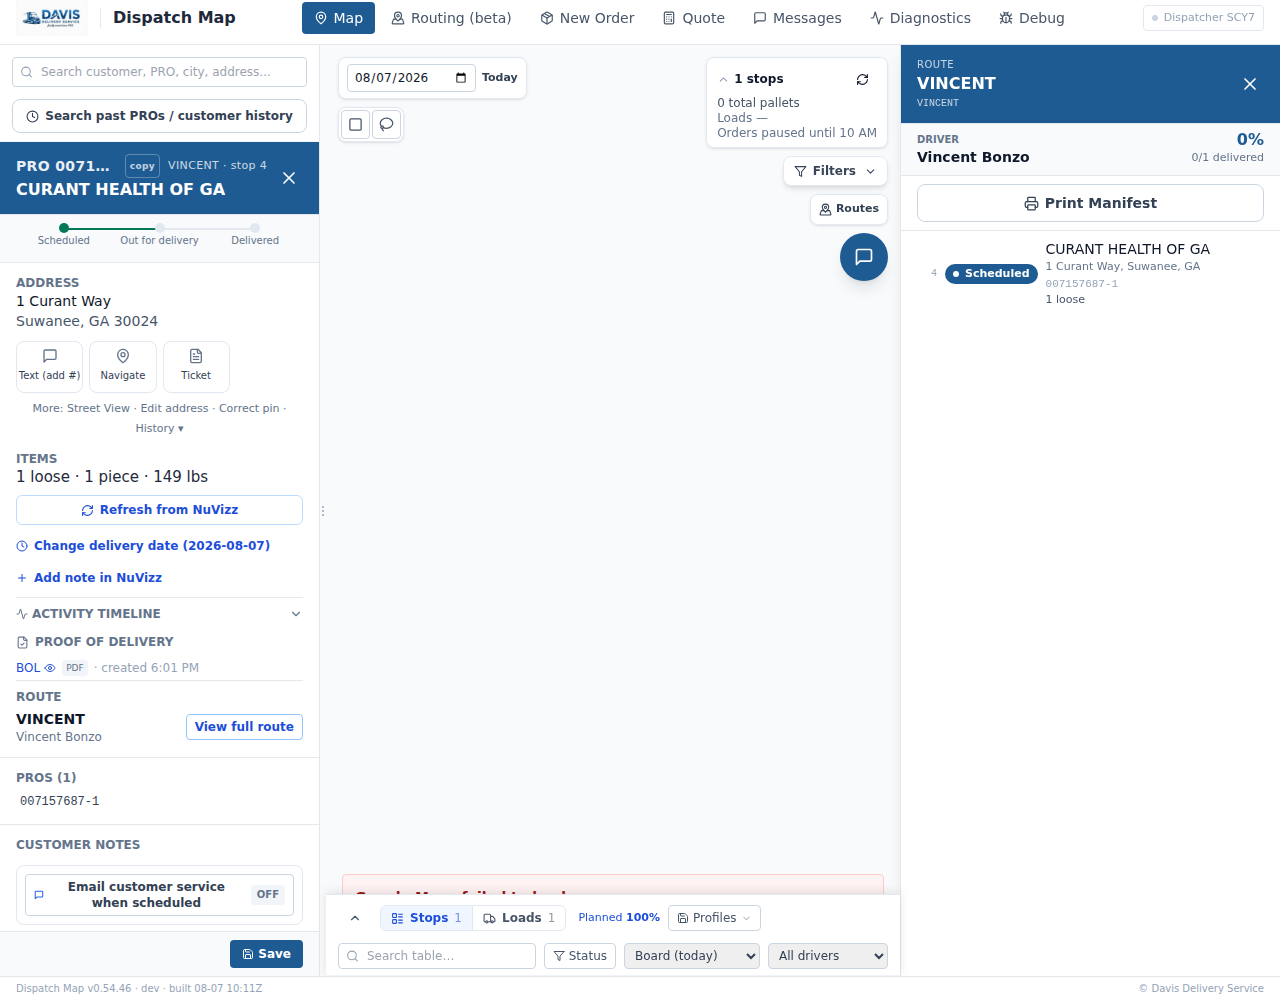
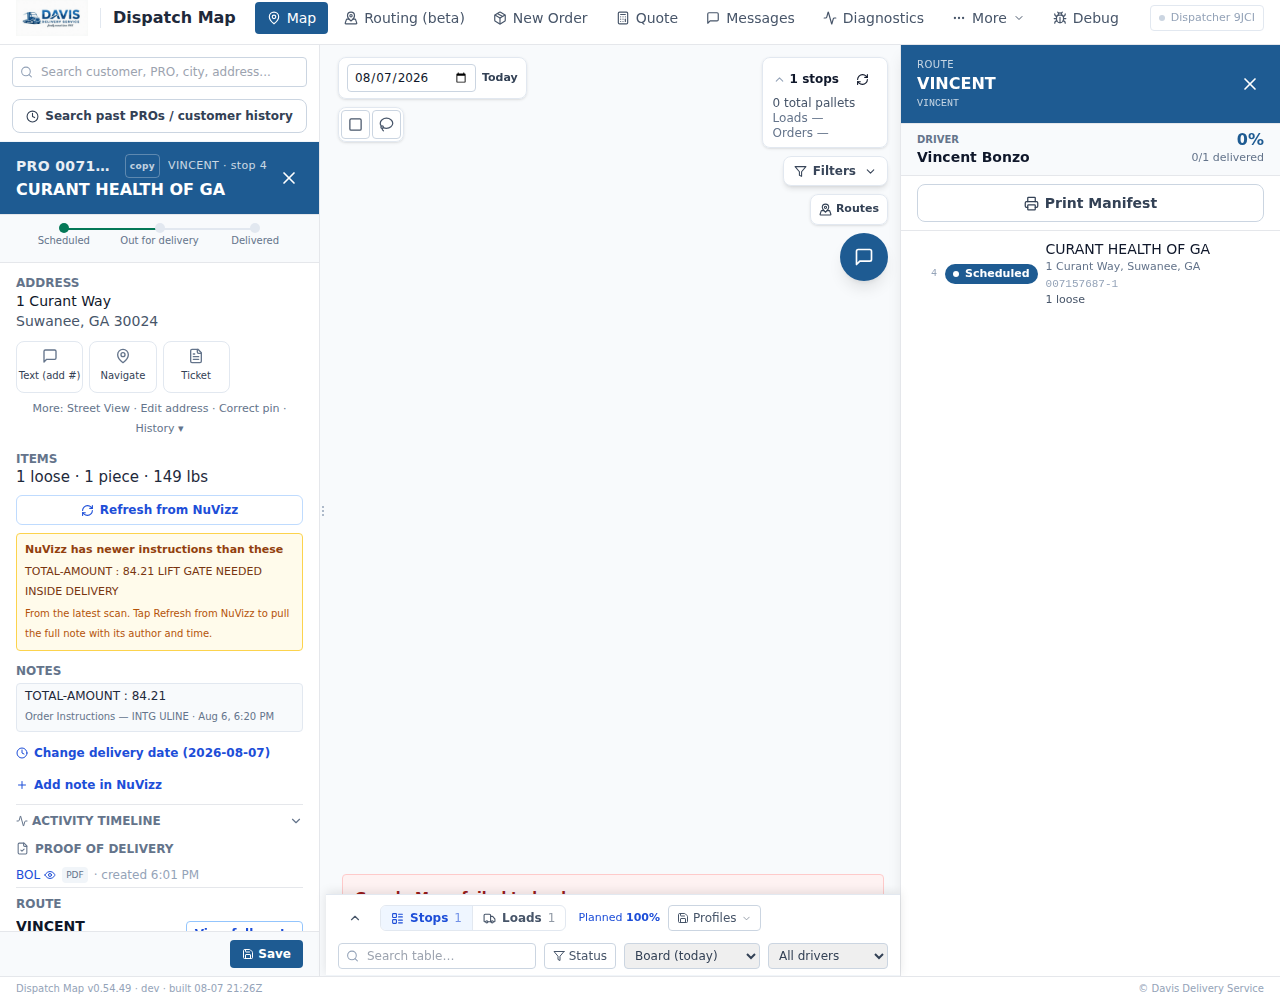
Refresh notes on every scan; persist the notes a card already paid for (v0.54.49)
Chad: "Notes should be updated with every scan planned unplanned and
completed deliveries."

What was happening is worse than "a bit behind": an order's notes were
captured ONCE, by the single /stop/info this app runs the first time a
PRO appears on the board, and never touched again by any scan. That
enriched record is filed per PRO in a day-independent registry and reused
across days, so a repeat customer could be showing notes captured weeks
before the instruction that mattered was written.

1. ORDER INSTRUCTIONS ARE NOW LIVE. The saved-search rows have carried
   each order's note text on every scan all along (nuvizz-list.mts:169 →
   toBoardStop orderInstructions). It just wasn't in LIVE_LIST_FIELDS, so
   mergeEnrich copied the older stored value back over it on every pass.
   Adding it refreshes the text on all three searches — planned,
   unplanned, completed — at zero extra NuVizz cost. Also added to the
   map feed mask so it actually reaches the client.

2. THE ON-DEMAND PULL IS PERSISTED. Opening a card / Refresh / the
   timeline already pays for a /stop/info whose answer carries current
   notes; useLiveStop folded them into the open card and dropped them on
   close. writeStopNotes() writes them back — same call, no new cost, and
   the repair is permanent for everyone instead of cosmetic for one tab.
   Read-merge-write, note fields only, so it can't race the scan that
   rewrites the whole doc every 15 minutes; an empty value never clobbers
[…]

diff --git a/dispatch-map/src/App.jsx b/dispatch-map/src/App.jsx
@@ -32,6 +32,7 @@ import { planOverlayAction, PLAN_OVERLAY_TTL_MS } from './lib/plan-overlay.js';
 import { routeStopEta, routeStopFreight, routeStopSeq } from './lib/route-stop-line.js';
 import { routeLoadLine, podPhotoFetchOffer, podSectionVisible, isPodImageExt, foldFreshStop } from './lib/stop-card-sections.js';
 import { manifestIssues, manifestHeadline, toStored, loadStored, saveStored } from './lib/manifest-check-view.js';
+import { noteFreshness } from './lib/stop-notes-freshness.js';
 import { stopTimelineModel } from './lib/stop-timeline.js';
 import { diffRouteStyle, DIFF_ORIGINAL_COLOR, groupDispatchTrips } from './lib/diff-route-style.js';
 import { addressLooksOff, suggestAddressFix } from './lib/address-fix.js';
@@ -71,7 +72,7 @@ if (typeof window !== 'undefined') {
 
 // ---------- constants ----------
 
-const APP_VERSION = '0.54.48';
+const APP_VERSION = '0.54.49';
 
 // No auth — see firebase.js. customer_notes writes are stamped with this
 // hardcoded identity until we wire up a real per-user signal (out of scope
@@ -116,6 +117,7 @@ function looksLikeLoadNbr(v) {
 // easy to keep up with what changed. Newest first; APP_VERSION (top) is highlighted.
 // Keep this curated + short (one line each); append a row on each release.
 const VERSION_LOG = [
+  ['0.54.49', 'NOTES NOW REFRESH ON EVERY SCAN, AND A CARD YOU OPEN REPAIRS ITS OWN NOTES FOR GOOD. Chad: "Notes should be updated with every scan planned unplanned and completed deliveries." Here is what was actually happening, because it is worse than "a bit behind": an order\'s notes were captured ONCE — the single detail lookup this app does the first time a PRO ever appears on the board — and then never touched again. Not by the next scan, not by any scan. And because that captured record is filed per PRO and reused across days, a repeat customer like ULINE could be showing you notes captured weeks before the instruction you actually needed was written. TWO CHANGES, BOTH FREE. FIRST, the note text now refreshes on every scan. The saved searches you already run — planned, unplanned and completed — have been carrying each order\'s instruction text the whole time, at no extra cost; the app was simply throwing it away, because a field not on the "keep this current" list gets overwritten by the older stored copy on every pass. It is on that list now. Zero extra NuVizz calls, all three searches, every scan. SECOND, opening a stop now FIXES it permanently. Tapping a card, hitting Refresh from NuVizz, or opening the Activity Timeline already pays for a full detail read, and that read comes back with the order\'s current notes — the app was folding them into the card on your screen and then discarding them the moment you closed it. They are now written back, so the next person to open that order sees the good notes without re-fetching anything. Same call, no new cost, and the repair sticks. THE HONEST LIMIT, and it is why there is a new amber banner: what the scans can refresh for free is the note TEXT. The full notes the card renders — with who wrote it, what type it is, and when — exist only in the detail read. So when a scan is carrying instructions the stored notes do not have, the card now says "NuVizz has newer instructions than these" and shows you the new text right there, rather than presenting weeks-old notes as if they were current. Refresh pulls the full version with its author and time. That banner is deliberately hard to trigger: it only fires when the scan has something we do not, never the reverse (the list squashes every comment into one line, so it usually carries LESS — flagging that would mark nearly every stop and you would learn to ignore it within a day), and one stray word is treated as noise rather than a new instruction. IF YOU WANT THE FULL NOTES ON EVERY SCAN TOO, that is one change on your side rather than mine: the saved searches would need the comment author, type and timestamp added as columns. Say the word and I will wire it. 1,334 tests, and the banner was verified rendering in a real browser.'],
   ['0.54.48', 'THE MANIFEST CHECK HAS A SCREEN NOW, AND A FLAG THAT FINDS YOU. Chad: "i want to run the manifest against what is scanned into firestore and want there to be a flag when there is an issue as well as i want to add a more dropdown to start storing things like this tab we are about to build." All three. A MORE MENU ON THE NAV. The tab row was full, and screens like this one are places you visit deliberately rather than live in — so rather than shrink every tab to squeeze them in, there is now a More dropdown at the right of the row and overflow tabs go there. Manifest check is the first one in it; the menu is built to take more. THE TAB. Drop the nightly Uline freight report on it and every order printed on that report is checked against what the scan actually put in Firestore. You get the headline first — either "all 660 manifest orders found in the scan" or the number that are not — then the manifest\'s own totals, then a table of exactly which orders are unaccounted for, with PRO, customer, city, ZIP, weight, skids and loose, so you can go chase them without hunting for the numbers. IT COSTS NOTHING. Not "a little" — nothing. The report is a text-layer PDF so reading it needs no AI pass, and the comparison reads Firestore. The endpoint underneath is capable of going on to ask NuVizz about each unaccounted order, but that is deliberately NOT wired to any button on this screen: nothing you can click here spends a NuVizz call, so it can never surprise you with one. THE FLAG, AND WHY IT SITS ON THE NAV. A problem found on a screen you are not looking at is the same as no problem, so the count of unaccounted orders shows as a red badge on the More menu itself — and it is stored, so it is still there tomorrow morning after a reload. It counts ORDERS TO CHASE, not categories of complaint: three missing orders reads 3, never "3 kinds of thing went wrong." Two things it deliberately does NOT flag: orders in the scan that are not on the manifest (the board carries every shipper, not just Uline — flagging those would bury the one order that matters under hundreds that are fine), and a manifest whose own totals do not reconcile, which warns in amber and marks the freight numbers unconfirmed rather than raising an order alert, because that is a reading problem and not a missing order. HONEST LIMIT, worth saying plainly: this tells you an order is not in the scan for the days it checked. That is not the same as proving NuVizz never got it — the order could be dated to another day. The table says so, and the PRO is right there to search. Verified in a real browser, not just unit tests: the menu opens, dropping a PDF runs the check exactly once, it never once asks for the NuVizz probe, the missing orders render with their customers, the badge appears on the nav without leaving the tab, and it is still there after a reload. Both the found-something and found-nothing paths were run. 1,325 tests.'],
   ['0.54.47', 'AN ORDER ON ULINE\'S NIGHTLY MANIFEST THAT NEVER REACHED NUVIZZ CAN NOW BE FOUND. Chad, with the 8/06 freight report in hand: "an order is on the nightly manifest that is not in nuvizz need to build a way to detect this." WHY NOTHING CAUGHT THIS BEFORE, and it is worth stating plainly: every integrity check this app has starts FROM NuVizz. The scan reads NuVizz. The board reconcile reads NuVizz. The capture seal checks what we captured out of NuVizz. So an order Uline physically handed us that NuVizz never received is invisible to all of them — there is no record to notice the absence of. Uline\'s own manifest is the only independent statement of what we were actually given, which is exactly why it can catch what nothing else can. WHAT WAS BUILT. The nightly PDF is now readable end to end: 660 orders off the 8/06 report, each with its PRO, customer, city, zip, weight, skids and loose pieces. It costs NOTHING to read — this report carries real text, unlike the faxed Estes manifests that need an AI vision pass, so there is no AI call and no NuVizz call in reading it. THE PART THAT TOOK THREE TRIES, because it would have quietly handed you wrong freight counts: the numbers on that report are RIGHT-ALIGNED, so a value\'s position never lines up with its column heading, and an order with no skids simply has no SKID column at all. Reading the numbers in the order they appear — the obvious approach, and my first two attempts — swapped SKIDS and LOOSE on 45 of the 660 orders. The reader now works off real column positions, and then PROVES its reading by reproducing the manifest\'s own FINAL TOTALS line, all four numbers: 660 orders, 359,769 lbs, 1,019 skids, 310 pieces. If a future manifest cannot be reconciled against its own totals it FAILS LOUDLY instead of handing you numbers it could not verify. THE CHECK ITSELF RUNS IN TWO STEPS, and the split is about cost. Step one is FREE: it compares every manifest PRO against the board, zero NuVizz calls, and produces SUSPECTS — orders on the manifest that are not on the board. Step two is the only part that costs anything: one NuVizz call per suspect, capped, and you have to ask for it explicitly. AND THE DISTINCTION THE WHOLE THING RESTS ON: "not on our board" and "not in NuVizz" are different claims. An order can be off the board because it is dated to another day, or cancelled, or on a day we did not scan. Only NuVizz answering "that order does not exist" proves it never arrived. Everything else — scans switched off, auth rejected, throttling, the daily call ceiling tripping — is UNVERIFIED, never absence, because every one of those fails for all 660 orders at once and a lazier design would cheerfully report your entire manifest as missing on a bad night. There is a test that fires all five of those failure modes at 660 orders and demands ZERO false accusations. One more real trap closed: the board stores some orders as 007157687-1 while Uline prints the bare 007157687, so matching had to handle the segment suffix — without that, every one of those orders would have read as missing and the report would have been nothing but false alarms. 26 new tests. NEXT: a drop zone so you can drag the nightly PDF in rather than calling the endpoint, and a nightly run that emails you only when something is actually missing.'],
   ['0.54.46', 'THE DELIVERY-PHOTO BUTTON IS ACTUALLY THERE THIS TIME — I DROVE THE REAL APP IN A BROWSER AND WATCHED IT WORK BEFORE WRITING THIS. Chad: "still no button and this delivery definitely has photos." He was right, and v0.54.45 deserved the complaint: I swapped one bad condition for another. THE FIRST VERSION hid the button unless the order had NO documents at all, so a BOL killed it. THE SECOND VERSION hid it unless the order was DELIVERED — and this order\'s card reads SCHEDULED. It can, and here is why, because it matters beyond this button: the status the card trusts comes from the cheap saved-search scan, and the delivery timestamp is NOT one of the fields that scan keeps current. NuVizz\'s own saved-search index is documented in this app as lagging real status by 30+ minutes and sometimes hours. So an order genuinely delivered can sit on our board marked Scheduled — and my gate made the button disappear at exactly the moment the board was stale, which is precisely when a dispatcher needs to go ask. SO THERE IS NO STATUS GATE ANY MORE. The button asks NuVizz a question. Asking is one call on your tap and is always a reasonable thing to want. The only condition left is the honest one: you don\'t already have photos. Worst case the answer is "no delivery photos on file" — a real answer, and strictly better than hiding the ability to ask. A SECOND BUG FOUND WHILE VERIFYING THIS ONE, and it would have bitten within a day: the card folded a refresh in by simply overwriting every field the pull returned — and a pull that found no documents returns an EMPTY document list. So tapping the button on an order NuVizz has nothing for would have DELETED the BOL you were already looking at. You ask for more and get less. The server has had a guard against exactly this for months (an empty value is never allowed to overwrite a good one); it was never mirrored on the browser side. It is now. WHY YOUR BOL SAYS 6:01 PM AND WHY IT ISN\'T A DELIVERY TIME: NuVizz\'s own guide says a BOL is generated one to three days BEFORE delivery, so that stamp is when the document was made. Printed bare under a heading that says "Proof of delivery", it read as an arrival time. It now says "created 6:01 PM". AND THE LIKELY REASON THE PHOTOS WERE MISSING FROM THE CARD IN THE FIRST PLACE: the cheap scan never carries document data at all. The BOL on your screen came from the single detail lookup this app does when a PRO FIRST APPEARS on the board — days before the driver ever went there — and that snapshot is then carried forward untouched forever. So the card was showing you a document list frozen from before the delivery happened. The button is what unfreezes it. HOW THIS WAS CHECKED, since twice was enough: there is now a script that serves the real built app in a real browser, feeds it this exact order (PRO 007157687-1, route VINCENT, one BOL, status Scheduled), clicks it open and fails unless the button is on screen — then clicks the button and checks both outcomes, photos coming back and nothing coming back. I also deliberately re-broke each fix and confirmed the script caught it, so it is a real test and not a green light that means nothing. 1,286 tests plus that browser check, zero NuVizz calls.'],
@@ -5456,6 +5458,13 @@ function StopLiveDetail({ stop, onRefreshed }) {
     } catch (e) { setRefreshErr(e.message); }
     finally { setRefreshing(false); }
   };
+  // NOTE FRESHNESS. The scans now keep the list's note TEXT current on every
+  // pass (planned, unplanned and completed alike) — but the rich notes below,
+  // with author and timestamp, only ever come from a /stop/info enrichment that
+  // runs ONCE when a PRO first appears. When the list is carrying instructions
+  // these notes do not have, they are behind, and saying so is better than
+  // presenting weeks-old text as current.
+  const fresh = noteFreshness(stop);
   const cleaned = cleanInstructions(stop.signalSources?.orderInstructions);
   return (
     <div className="pt-1 space-y-2">
@@ -5465,7 +5474,16 @@ function StopLiveDetail({ stop, onRefreshed }) {
         </button>
       </div>
       {refreshErr && <div className="text-[11px] text-amber-700">Couldn’t refresh: {refreshErr}</div>}
-      {stop.allComments?.length ? (
+      {fresh.stale && (
+      <div className="mt-1 mb-1 rounded border border-amber-300 bg-amber-50 px-2 py-1.5">
+        <div className="text-[11px] font-semibold text-amber-800">NuVizz has newer instructions than these</div>
+        <div className="text-[11px] text-amber-900 mt-0.5 whitespace-pre-wrap break-words">{fresh.liveText}</div>
+        <div className="text-[10px] text-amber-700 mt-0.5">
+          From the latest scan. Tap Refresh from NuVizz to pull the full note with its author and time.
+        </div>
+      </div>
+    )}
+    {stop.allComments?.length ? (
         <StopNotesList comments={stop.allComments} />
       ) : cleaned ? (
         <div className="pt-1">

diff --git a/dispatch-map/src/lib/stop-notes-freshness.js b/dispatch-map/src/lib/stop-notes-freshness.js
@@ -1,0 +1,65 @@
+// src/lib/stop-notes-freshness.js
+//
+// Are the notes on this card current?
+//
+// Two different things carry notes and they refresh on very different schedules:
+//   • orderInstructions — the saved-search list's plain note TEXT. Free, and now
+//     refreshed on EVERY scan (planned, unplanned and completed searches alike).
+//   • allComments — the rich notes the card actually renders, with author, type
+//     and timestamp. These exist only in /stop/info, and an order is enriched
+//     ONCE, when its PRO first appears on the board. For a repeat customer that
+//     can be weeks before the note you care about was written.
+//
+// So the list text is the tripwire: when it says something the stored rich notes
+// do not, the notes on screen are behind and the card should say so instead of
+// presenting stale text as current.
+
+const norm = (v) => String(v ?? '')
+  .replace(/\s+/g, ' ')
+  .replace(/[^\w\s:.,%$&/#-]/g, '')
+  .trim()
+  .toLowerCase();
+
+/** The note text the card is currently showing, from the rich notes. */
+export function storedNoteText(stop) {
+  const parts = [];
+  for (const c of (stop?.allComments || [])) if (c?.text) parts.push(c.text);
+  const sig = stop?.signalSources?.orderInstructions;
+  if (sig) parts.push(sig);
+  return parts.join(' ');
+}
+
+/**
+ * Has the list seen note text the stored rich notes do not contain?
+ *
+ * Deliberately one-directional. The list collapses every comment on an order
+ * into ONE unattributed string, so it routinely holds LESS than allComments —
+ * treating "the list is missing something" as a change would flag almost every
+ * stop and the signal would be worthless. Only text the list has and we do not
+ * counts.
+ */
+export function noteTextChanged(stop) {
+  const live = norm(stop?.orderInstructions);
+  if (!live) return false;
+  const stored = norm(storedNoteText(stop));
+  if (!stored) return true;              // list has text, we have none
+  if (stored.includes(live)) return false;
+  // Compare on words so re-ordering or punctuation drift is not a "change".
+  const have = new Set(stored.split(' ').filter(Boolean));
+  const words = live.split(' ').filter((w) => w.length > 2);
+  if (!words.length) return false;
+  const unseen = words.filter((w) => !have.has(w));
+  // A single stray token is noise (a truncation artifact, a stray code); a real
+  // new instruction brings several words with it.
+  return unseen.length >= 2 && unseen.length / words.length >= 0.34;
+}
+
+/** What the card should say about note freshness, if anything. */
+export function noteFreshness(stop) {
+  if (!stop) return { stale: false, liveText: null, refreshedAt: null };
+  return {
+    stale: noteTextChanged(stop),
+    liveText: stop.orderInstructions || null,
+    refreshedAt: stop.notes_refreshed_at || null,
+  };
+}
